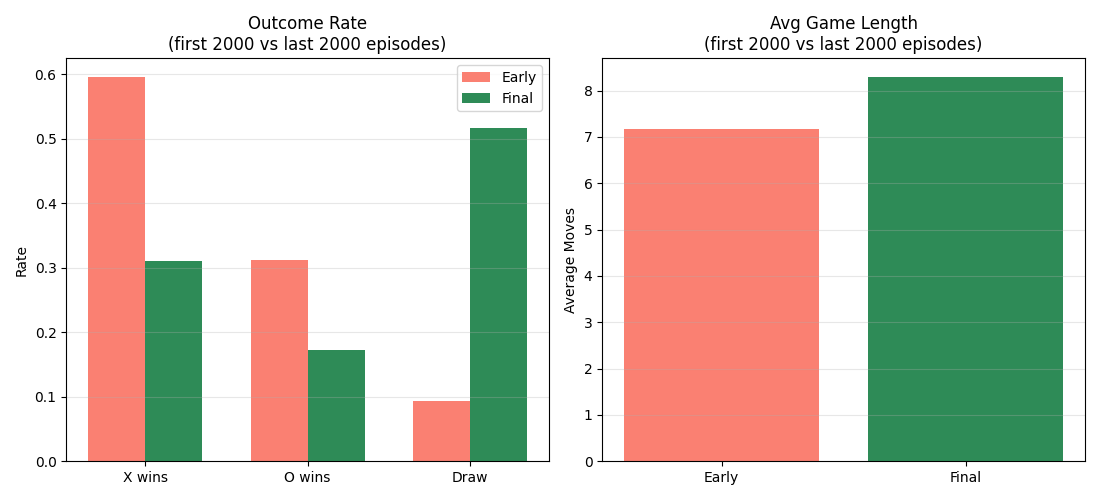
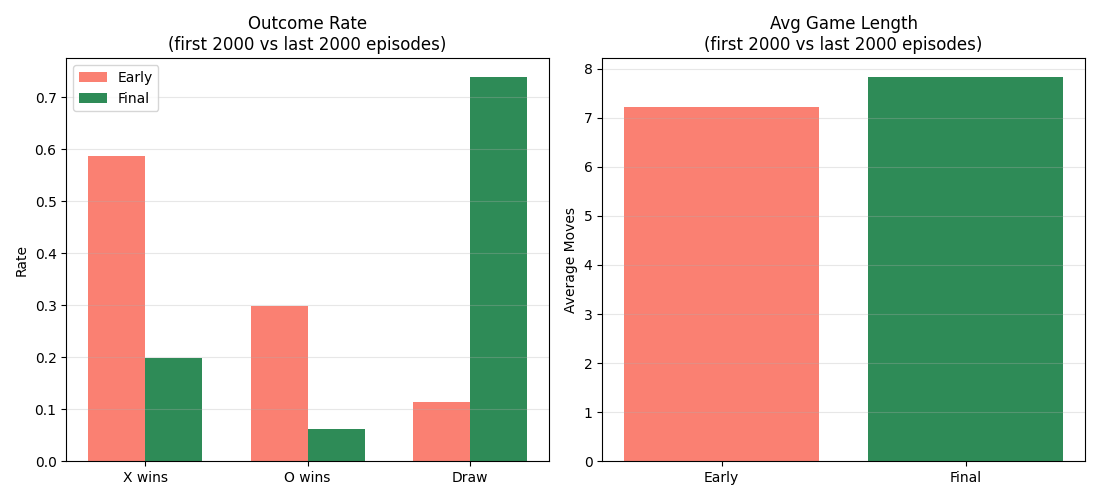
assgn 3

diff --git a/Assignments/Assignment 3/board.py b/Assignments/Assignment 3/board.py
@@ -1,8 +1,10 @@
 import numpy as np
 
+# Cell values and display values
 EMPTY, X, O = 0, 1, 2
 SYMBOLS = {EMPTY: ".", X: "X", O: "O"}
 
+# Defined rewards
 R_WIN = 100
 R_STEP = -1
 R_INVALID = -10
@@ -10,14 +12,16 @@ R_LOSE = -100
 R_DRAW = 0
 
 class Board:
+    """NxN tic-tac-toe environment: board state, move, reward"""
     def __init__(self, size=3):
         self.size = size
         self.n_cells = size * size
-        self.max_steps = 10 * self.n_cells
-        self._lines = self._winning_lines()
+        self.max_steps = 10 * self.n_cells      # cap to guard against run away episodes
+        self._lines = self._winning_lines()     # precomputed list of cell-index groups that constitute a win
         self.reset()
 
     def _winning_lines(self):
+        """building all the winning lines: every row, every column, 2 diagonals"""
         lines = []
         for r in range(self.size):
             lines.append([r * self.size + c for c in range(self.size)])
@@ -29,25 +33,30 @@ class Board:
 
     @property
     def n_states(self):
+        """total staate space 3 ^ (n x n) -> every cell can be either empty/X/O"""
         return 3 ** self.n_cells
 
     @property
     def n_actions(self):
+        """moves = total cells, after that exhaust"""
         return self.n_cells
 
     def reset(self):
+        """ clear the board and return state index of empty board"""
         self.cells = [EMPTY] * self.n_cells
         self.current_player = X
         self.steps_taken = 0
         return self.state_idx(tuple(self.cells))
 
     def state_idx(self, state):
+        """encode a cell tuple as a single integer"""
         idx = 0
         for cell in state:
             idx = idx * 3 + cell
         return idx
 
     def state_from_idx(self, idx):
+        """inverse of what is done in state_idx"""
         cells = [EMPTY] * self.n_cells
         for i in range(self.n_cells - 1, -1, -1):
             cells[i] = idx % 3
@@ -55,13 +64,16 @@ class Board:
         return tuple(cells)
 
     def check(self, action):
+        """checking the bounds of the action number"""
         return 0 <= action < self.n_cells
 
     def available_actions(self, state=None):
+        """list of the empty cells for the given state"""
         cells = state if state is not None else self.cells
         return [i for i, v in enumerate(cells) if v == EMPTY]
 
     def winner(self, cells=None):
+        """return the winning player's mark, or None if no line is fully owned by any player"""
         cells = cells if cells is not None else self.cells
         for line in self._lines:
             vals = [cells[i] for i in line]
@@ -89,6 +101,7 @@ class Board:
 
         player = self.current_player
         if not self.check(action) or self.cells[action] != EMPTY:
+            # invalid move -> same board, player has to retry
             info = {"valid_move": False, "winner": None, "draw": False, "player": player}
             return self.state_idx(tuple(self.cells)), R_INVALID, False, info
 
@@ -107,11 +120,12 @@ class Board:
         info = {"valid_move": True, "winner": win, "draw": draw, "player": player}
         next_state = tuple(self.cells)
         if not done:
-            self.current_player = O if player == X else X
+            self.current_player = O if player == X else X   # pass the turn on a valid non-terminal move
 
         return self.state_idx(next_state), reward, done, info
 
     def print_board(self, cells=None):
+        """human readable board"""
         cells = cells if cells is not None else self.cells
         rows = []
         for r in range(self.size):

diff --git a/Assignments/Assignment 3/main.py b/Assignments/Assignment 3/main.py
@@ -3,17 +3,20 @@ from board import Board, X, O
 from agent import Agent
 import utils
 
+# Default input values
 DEMO_SIZE = 3
 DEMO_ALPHA = 0.1
 DEMO_GAMMA = 0.9
 DEMO_EPS = 0.3
 
 def build_from_args(args):
+    """resolve the input values from the args"""
     if args.demo:
         print("Running in --demo mode with the classic 3x3 board")
         return DEMO_SIZE, DEMO_ALPHA, DEMO_GAMMA, DEMO_EPS, args.seed
 
-    size = utils.prompt_int("Board size N (N x N grid, e.g. 3): ", default=DEMO_SIZE, min_val=3, max_val=5)
+    # n_states = 3**(size*size), so the dense Q-table only stays tractable at the classic 3x3 size
+    size = utils.prompt_int("Board size N (N x N grid, fixed at 3 for classic play): ", default=DEMO_SIZE, min_val=3, max_val=3)
     alpha = utils.prompt_float("Learning rate alpha (e.g. 0.1): ", default=DEMO_ALPHA, min_val=0.0, max_val=1.0)
     gamma = utils.prompt_float("Discount factor gamma (e.g. 0.9): ", default=DEMO_GAMMA, min_val=0.0, max_val=1.0)
     eps = utils.prompt_float("Exploration rate epsilon (e.g. 0.3): ", default=DEMO_EPS, min_val=0.0, max_val=1.0)
@@ -36,6 +39,7 @@ def main():
     os.makedirs(out_dir, exist_ok=True)
 
     board = Board(size=size)
+    # two independent agents for X and O
     agent_x = Agent(board.n_states, board.n_actions, alpha=alpha, gamma=gamma, eps=eps, eps_decay=args.eps_decay, seed=seed)
     agent_o = Agent(board.n_states, board.n_actions, alpha=alpha, gamma=gamma, eps=eps, eps_decay=args.eps_decay, seed=seed + 1)
 
@@ -52,6 +56,7 @@ def main():
     print("\n==== Q-table sample: Agent O ====")
     utils.print_q_sample(agent_o, board, name="Agent O")
 
+    # learned policy -> one full greedy episode from empty board
     print("\n=== Learned Self-Play Trace (greedy, from empty board) ===")
     ep_reward, marks_placed, winner, draw, trace = utils.play_episode(
         board=board, agent_x=agent_x, agent_o=agent_o, learn=False, greedy=True, record_trace=True)
@@ -60,6 +65,7 @@ def main():
     print(f"\nOutcome: {outcome_str}   Moves: {marks_placed}")
     print(f"Total reward - Agent X: {ep_reward[X]}   Agent O: {ep_reward[O]}")
 
+    # save the plots and the comprehensive json file
     utils.plot_rewards(reward_x, reward_o, os.path.join(out_dir, "reward_per_episode.png"))
     utils.plot_steps(steps, os.path.join(out_dir, "steps_per_episode.png"))
     stats = utils.plot_comparison(steps, outcomes, os.path.join(out_dir, "early_vs_final_performance.png"))

diff --git a/Assignments/Assignment 3/agent.py b/Assignments/Assignment 3/agent.py
@@ -2,6 +2,7 @@ import random
 import numpy as np
 
 class Agent:
+    """Tabular Q-Learning Agent: Action Selection + Updates"""
     def __init__(self, n_states, n_actions, alpha=0.1, gamma=0.9, eps=0.1, eps_decay=1.0, eps_min=0.01, seed=None):
         self.n_states = n_states
         self.n_actions = n_actions
@@ -9,20 +10,27 @@ class Agent:
         self.gamma = gamma
         self.eps = eps
         self.eps_decay = eps_decay
-        self.eps_min = eps_min
-        self.q = np.zeros((n_states, n_actions))
-        self.rng = random.Random(seed)
-        self.visit_counts = {}
+        self.eps_min = eps_min                      # floor for the epsilon value (after decay)
+        self.q = np.zeros((n_states, n_actions))    # Q-Table -> begin with all zeros
+        self.rng = random.Random(seed)              # dedicated rng per-agent
+        self.visit_counts = {}                      # state -> number of moves made from it
 
     def choose_action(self, state, greedy=False):
+        """
+            Epsilon-greedy action selection, ties are broken randomly
+        """
         if (not greedy) and self.rng.random() < self.eps:
-            return self.rng.randrange(self.n_actions)
+            return self.rng.randrange(self.n_actions)       # explore: uniform random action
         q_val = self.q[state]
         max_q = np.max(q_val)
+        # break ties randomly
         best_actions = np.flatnonzero(q_val == max_q)
         return int(self.rng.choice(best_actions))
 
     def update(self, state, action, reward, next_state, done):
+        """
+            Standard Q-Learning (off-policy TD) -> update using the max Q-value over next_state
+        """
         best_next = 0.0 if done else np.max(self.q[next_state])
         td_target = reward + self.gamma * best_next
         td_error = td_target - self.q[state, action]
@@ -30,4 +38,5 @@ class Agent:
         self.visit_counts[state] = self.visit_counts.get(state, 0) + 1
 
     def decay_eps(self):
+        """epsilon decay respecting the floor"""
         self.eps = max(self.eps_min, self.eps * self.eps_decay)

diff --git a/Assignments/Assignment 3/test_environment.py b/Assignments/Assignment 3/test_environment.py
@@ -4,6 +4,7 @@ def make_board(size=3):
     return Board(size=size)
 
 def test_reset_state():
+    # fresh board should be all empty
     b = make_board()
     s = b.reset()
     assert s == b.state_idx((EMPTY,) * 9)
@@ -12,6 +13,7 @@ def test_reset_state():
     assert b.steps_taken == 0
 
 def test_valid_move_updates_cell_and_switches_player():
+    # a valid move marks the cell, gives the reward (penalty) and passes the turn
     b = make_board()
     b.reset()
     _, reward, done, info = b.step(0)
@@ -22,6 +24,7 @@ def test_valid_move_updates_cell_and_switches_player():
     assert b.current_player == O
 
 def test_move_into_occupied_cell_is_invalid():
+    # marking an already occupied cell must be not valid
     b = make_board()
     b.reset()
     b.step(0)  # X marks cell 0
@@ -33,6 +36,7 @@ def test_move_into_occupied_cell_is_invalid():
     assert b.cells[0] == X  # unchanged
 
 def test_row_win_detected():
+    # row win check
     b = make_board()
     b.reset()
     moves = [0, 3, 1, 4, 2]  # X: 0,1,2 (top row)  O: 3,4
@@ -44,6 +48,7 @@ def test_row_win_detected():
     assert reward == 100
 
 def test_draw_detected():
+    # check for a hard coded draw condition
     b = make_board()
     b.reset()
     # Final layout (no winner):  X O X / X O O / O X X
@@ -57,6 +62,7 @@ def test_draw_detected():
     assert reward == 0
 
 def test_available_actions_excludes_occupied():
+    # available actions should always return only empty cells
     b = make_board()
     b.reset()
     b.step(0)
@@ -65,6 +71,7 @@ def test_available_actions_excludes_occupied():
     assert len(avail) == 8
 
 def test_state_idx_round_trip():
+    # indexing and de-indexing should be complimentory
     b = make_board()
     b.reset()
     b.step(4)
@@ -73,6 +80,7 @@ def test_state_idx_round_trip():
     assert b.state_from_idx(idx) == cells
 
 def test_print_board_shows_marks():
+    # printed board should show the mark in correct cell
     b = make_board()
     b.reset()
     b.step(0)

diff --git a/Assignments/Assignment 3/test_agent.py b/Assignments/Assignment 3/test_agent.py
@@ -1,22 +1,26 @@
 from agent import Agent
 
 def test_greedy_action_picks_max_q():
+    # with eps=0, agent should not explore
     agent = Agent(n_states=4, n_actions=4, eps=0.0, seed=0)
     agent.q[0] = [1.0, 5.0, -2.0, 0.0]
     assert agent.choose_action(0) == 1
 
 def test_fully_random_when_epsilon_one():
+    # when eps=1, agent always explore
     agent = Agent(n_states=4, n_actions=4, eps=1.0, seed=1)
     agent.q[0] = [1.0, 5.0, -2.0, 0.0]
     seen = {agent.choose_action(0) for _ in range(200)}
     assert len(seen) > 1
 
 def test_greedy_flag_ignores_epsilon():
+    # greedy=True should exploit even when eps=1
     agent = Agent(n_states=4, n_actions=4, eps=1.0, seed=2)
     agent.q[0] = [1.0, 5.0, -2.0, 0.0]
     assert agent.choose_action(0, greedy=True) == 1
 
 def test_update_moves_q_towards_target():
+    # check q-value moves -> alpha * TD-error toward reward + gamma * max_next_Q
     agent = Agent(n_states=2, n_actions=2, alpha=0.5, gamma=0.9)
     agent.q[1] = [10.0, 0.0]
     before = agent.q[0, 0]
@@ -26,18 +30,21 @@ def test_update_moves_q_towards_target():
     assert after == before + 0.5 * (target - before)
 
 def test_update_ignores_next_state_when_done():
+    # terminal transition, no move after this
     agent = Agent(n_states=2, n_actions=2, alpha=1.0, gamma=0.9)
     agent.q[1] = [999.0, 999.0]
     agent.update(state=0, action=0, reward=5.0, next_state=1, done=True)
     assert agent.q[0, 0] == 5.0
 
 def test_epsilon_decay_respects_floor():
+    # eps decay should respect the floor
     agent = Agent(n_states=2, n_actions=2, eps=1.0, eps_decay=0.5, eps_min=0.2)
     for _ in range(10):
         agent.decay_eps()
     assert agent.eps == 0.2
 
 def test_update_tracks_visit_counts():
+    # visit count should increment after every one update
     agent = Agent(n_states=2, n_actions=2)
     agent.update(state=0, action=0, reward=1.0, next_state=1, done=False)
     agent.update(state=0, action=1, reward=1.0, next_state=1, done=False)

diff --git a/Assignments/Assignment 3/utils.py b/Assignments/Assignment 3/utils.py
@@ -6,6 +6,7 @@ import numpy as np
 from board import Board, X, O, SYMBOLS, R_LOSE, R_DRAW
 from agent import Agent
 
+# prompt helper functions
 def prompt_int(prompt_text, default=None, min_val=None, max_val=None):
     while True:
         raw = input(prompt_text).strip()
@@ -99,6 +100,7 @@ def play_episode(board: Board, agent_x: Agent, agent_o: Agent, learn=True, greed
 
     return episode_reward, marks_placed, winner, draw, trace
 
+# main training function for the agents
 def train_self_play(board: Board, agent_x: Agent, agent_o: Agent, episodes, verbose_after=0):
     reward_x, reward_o, steps_per_episode, outcomes = [], [], [], []
     for ep in range(1, episodes + 1):
@@ -123,6 +125,7 @@ def train_self_play(board: Board, agent_x: Agent, agent_o: Agent, episodes, verb
 
     return reward_x, reward_o, steps_per_episode, outcomes
 
+# print helper functions
 def print_q_sample(agent: Agent, board: Board, name, top_k=15):
     most_visited = sorted(agent.visit_counts.items(), key=lambda kv: kv[1], reverse=True)[:top_k]
     print(f"{name} -- top {len(most_visited)} most-visited states (of {len(agent.visit_counts)} visited)")
@@ -148,6 +151,7 @@ def format_trace(trace, board: Board):
         lines.append(f"{i:<{col_widths[0]}}{SYMBOLS[player]:<{col_widths[1]}}{action:<{col_widths[2]}}{board_flat}")
     return "\n".join(lines)
 
+# plot helper functions
 def plot_rewards(reward_x, reward_o, out_path):
     plt.figure(figsize=(9, 5))
     plt.plot(range(1, len(reward_x) + 1), reward_x, linewidth=1, label="Agent X", color="royalblue")

diff --git a/Assignments/Assignment 3/test_cases.py b/Assignments/Assignment 3/test_cases.py
@@ -3,6 +3,10 @@ from board import Board, X, O
 from agent import Agent
 import utils
 
+"""
+Defining some manual hard coded test cases to test the environment and the agents (for cross checking)
+"""
+
 class ScriptedAgent:
     """Replays a fixed list of actions in order, ignoring state/greedy/updates."""
     def __init__(self, moves):
